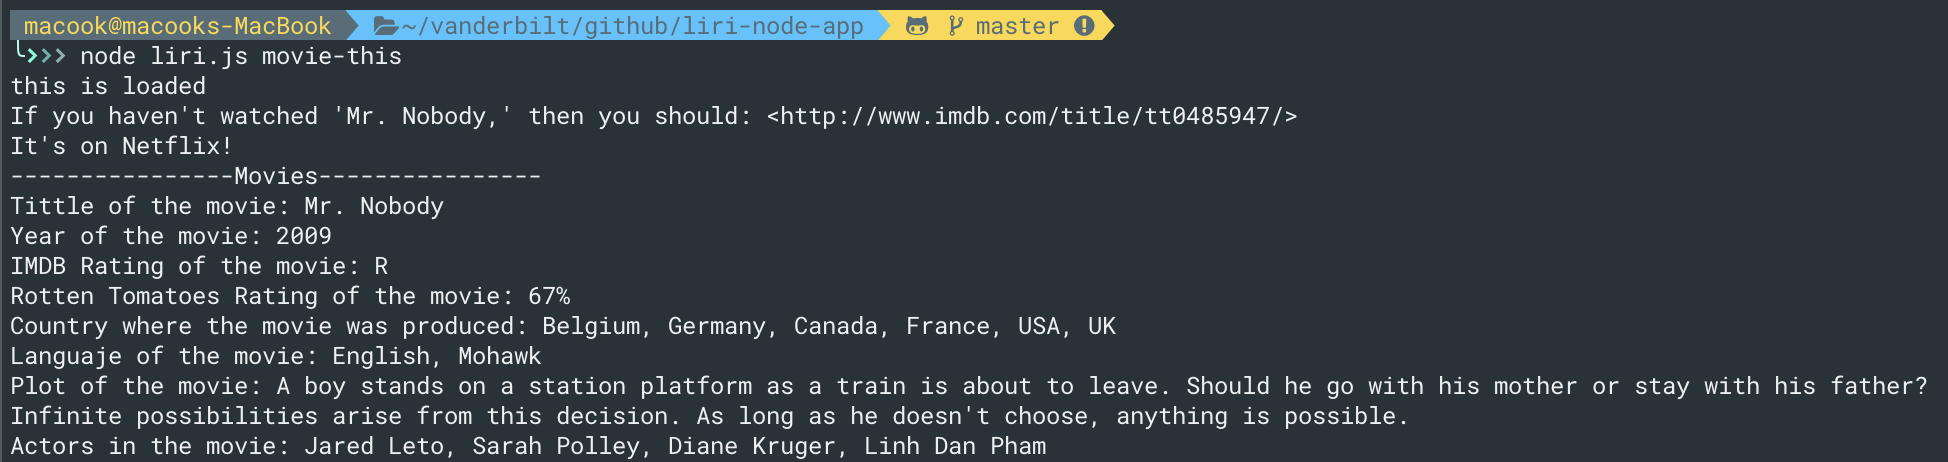
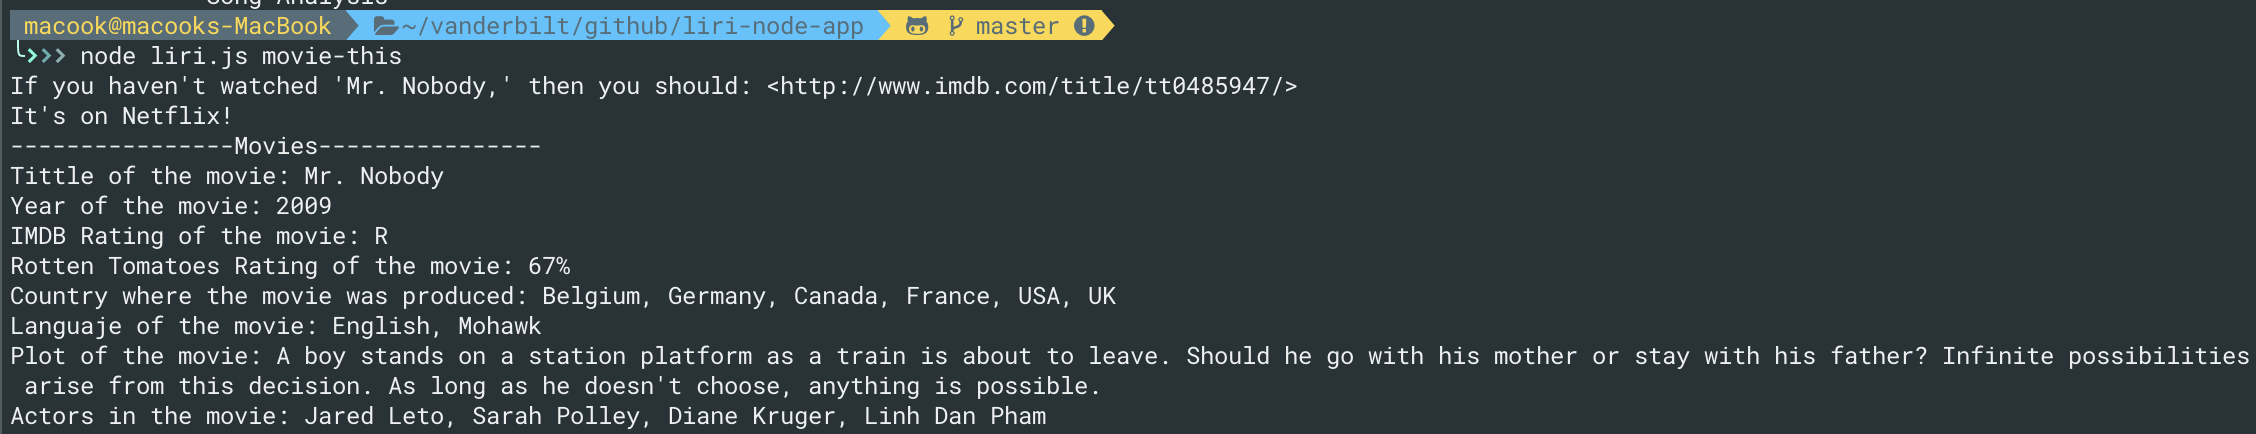
New changes

Changed region(s): [[0.0, 0.0, 1.0, 0.9885]]

diff --git a/liri.js b/liri.js
@@ -16,7 +16,7 @@ var song = process.argv[3];
 
 switch (options) {
   case 'spotify-this-song':
-    spotifiando();
+    spo();
     break;
   case 'movie-this':
     movies();
@@ -28,10 +28,12 @@ switch (options) {
     listen();
     break;
   default:
-  // code block
+    console.log("Please enter a valid option, such as (spotify-this-song + song)");
+    console.log("(spotify-this-song + song), (movie-this + movie), or (do-what-it-says)");
+    break;
 }
 
-function spotifiando() {
+function spo() {
   // Catch empty input
   if (!song) {
     song = "The Sign Ace of Base";
@@ -66,7 +68,6 @@ function spotifiando() {
         2
       )
     );
-    console.log('------------- Song Analysis -------------');
   });
 }
 
@@ -100,7 +101,6 @@ function movies() {
     console.log('Languaje of the movie: ' + response.data.Language);
     console.log('Plot of the movie: ' + response.data.Plot);
     console.log('Actors in the movie: ' + response.data.Actors);
-    console.log('--------------------------------');
   });
 }
 
@@ -126,7 +126,7 @@ function concerts() {
         console.log(
           'Date of the Event: ' + moment(response.data[i].datetime).format('L')
         );
-        console.log('-------------------');
+        console.log("-----------")
       }
     });
 }
@@ -146,7 +146,7 @@ fs.readFile("random.txt", "utf8", function(error, data) {
   var dataArr = data.split(",");
         song = dataArr[1];
 
-         spotifiando(song);
+         spo(song);
 
   // We will then re-display the content as an array for later use.
   // console.log(dataArr);

diff --git a/keys.js b/keys.js
@@ -1,5 +1,3 @@
-console.log('this is loaded');
-
 exports.spotify = {
   id: process.env.SPOTIFY_ID,
   secret: process.env.SPOTIFY_SECRET
